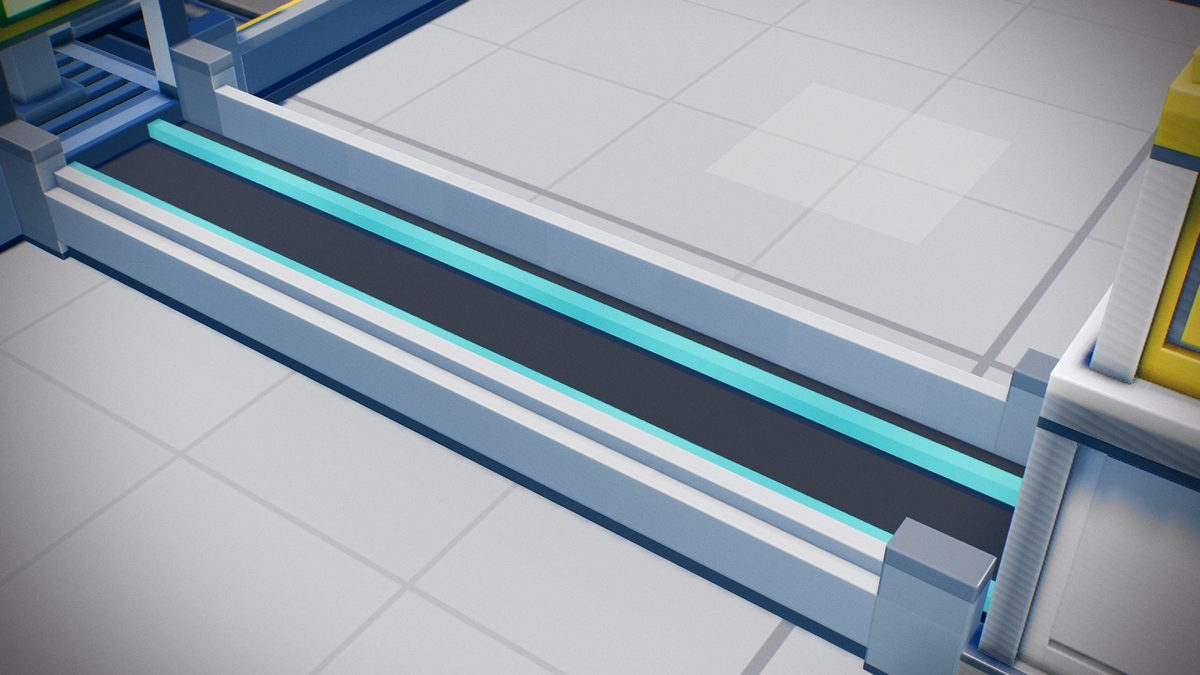
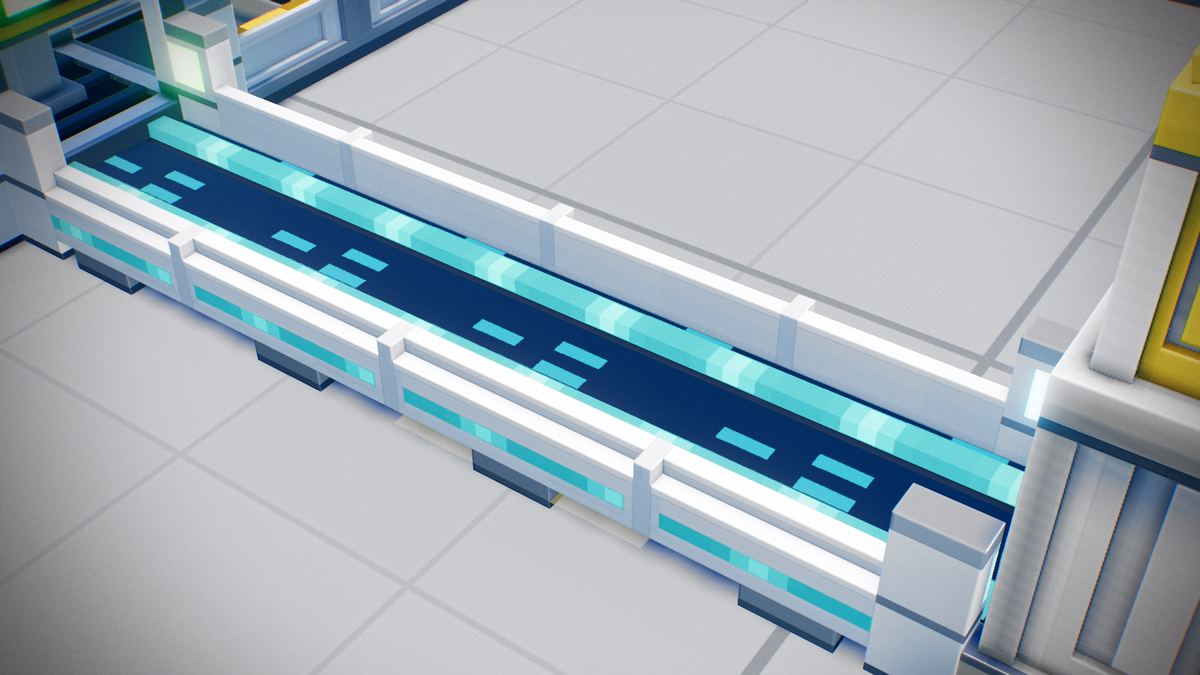
Catalog: Factoriature title, current belts, train, vehicles, story and opening sets
Logistics cards now show the current belts and devices, plus a foundation
card. Adds 27 model cards in four sections, marks the hero as temporary and
moves the page banner to img/banner.jpg, since hero.jpg is now the hero model.

diff --git a/index.html b/index.html
@@ -3,7 +3,7 @@
 <head>
 <meta charset="utf-8">
 <meta name="viewport" content="width=device-width,initial-scale=1,viewport-fit=cover">
-<title>SKYROOT 기계 도감</title>
+<title>Factoriature (임시 제목) 기계 도감</title>
 <link rel="stylesheet" href="https://fonts.googleapis.com/css2?family=Black+Han+Sans&family=IBM+Plex+Mono:wght@400;500&family=IBM+Plex+Sans+KR:wght@400;500;700&display=swap">
 <style>
 /* Layout: a parts catalogue. Hazard-taped header, one filter rail, spec-sheet cards. */
@@ -11,22 +11,25 @@
   --bg:#e9ecee; --panel:#fafbfb; --ink:#1b2026; --muted:#59626c; --line:#d0d6da; --chip:#e1e5e8;
   --hazard:#f2c21c; --hazard-dark:#1b2026;
   --heat:#d9601a; --extract:#c98c10; --power:#c93d32; --fluid:#0c8c81; --bio:#35953b; --assemble:#76982a; --forming:#2d62c4; --lumen:#7a4fd0; --sky:#4a50c0; --utility:#23977d;
+  --logi:#7f6f08; --rail:#66717d; --vehicle:#16799e; --story:#b8388e; --opening:#c73560;
   --display:"Black Han Sans","IBM Plex Sans KR",system-ui,sans-serif;
   --body:"IBM Plex Sans KR",system-ui,-apple-system,sans-serif;
   --mono:"IBM Plex Mono",ui-monospace,Menlo,monospace;
 }
 @media (prefers-color-scheme:dark){:root:not([data-theme="light"]){
   --bg:#14171b; --panel:#1d2126; --ink:#e9edf0; --muted:#9aa4ae; --line:#30363d; --chip:#2a2f35; --hazard-dark:#14171b;
-  --heat:#f0853f; --extract:#e6b23a; --power:#ee6a5e; --fluid:#3cc4b7; --bio:#62c768; --assemble:#a9cc55; --forming:#6f9fee; --lumen:#ab8cf0; --sky:#8f94ec; --utility:#55cfae; color-scheme:dark}}
+  --heat:#f0853f; --extract:#e6b23a; --power:#ee6a5e; --fluid:#3cc4b7; --bio:#62c768; --assemble:#a9cc55; --forming:#6f9fee; --lumen:#ab8cf0; --sky:#8f94ec; --utility:#55cfae; --logi:#d9c23e; --rail:#a7b1bc; --vehicle:#4fb4dc; --story:#e56cbd; --opening:#f0729a; color-scheme:dark}}
 :root[data-theme="dark"]{
   --bg:#14171b; --panel:#1d2126; --ink:#e9edf0; --muted:#9aa4ae; --line:#30363d; --chip:#2a2f35; --hazard-dark:#14171b;
-  --heat:#f0853f; --extract:#e6b23a; --power:#ee6a5e; --fluid:#3cc4b7; --bio:#62c768; --assemble:#a9cc55; --forming:#6f9fee; --lumen:#ab8cf0; --sky:#8f94ec; --utility:#55cfae; color-scheme:dark}
+  --heat:#f0853f; --extract:#e6b23a; --power:#ee6a5e; --fluid:#3cc4b7; --bio:#62c768; --assemble:#a9cc55; --forming:#6f9fee; --lumen:#ab8cf0; --sky:#8f94ec; --utility:#55cfae; --logi:#d9c23e; --rail:#a7b1bc; --vehicle:#4fb4dc; --story:#e56cbd; --opening:#f0729a; color-scheme:dark}
 *{box-sizing:border-box}
+[hidden]{display:none!important}
 body{background:var(--bg);color:var(--ink);font-family:var(--body);font-size:15px;line-height:1.55}
 .wrap{max-width:1240px;margin:0 auto;padding-left:max(16px,env(safe-area-inset-left,0px));padding-right:max(16px,env(safe-area-inset-right,0px));padding-block:0 56px}
 .tape{height:12px;background:repeating-linear-gradient(135deg,var(--hazard) 0 18px,var(--hazard-dark) 18px 36px)}
 header{display:grid;grid-template-columns:minmax(0,5fr) minmax(0,7fr);gap:28px;align-items:end;padding-block:28px 22px}
 h1{font-family:var(--display);font-weight:400;font-size:clamp(34px,6vw,60px);line-height:1.05;margin:0 0 12px;text-wrap:balance}
+.tmp{font:500 .36em var(--body);color:var(--muted);white-space:nowrap}
 .lede{margin:0;color:var(--muted);max-width:44ch}
 .hero{margin:0;min-width:0}
 .hero img{display:block;width:100%;aspect-ratio:16/8;object-fit:cover;object-position:50% 40%}
@@ -59,6 +62,10 @@ dd{margin:0;font-family:var(--mono);font-size:14px}
 .makes{margin:0;font-size:13.5px;color:var(--muted)}
 .noscore{margin-top:auto;font-size:12px}
 .logi{padding-block:32px 0}
+.set{padding-block:32px 0}
+.set>h2{font-size:22px;margin:0 0 6px}
+.set>p{margin:0;color:var(--muted)}
+.set .grid{padding-block:14px 0}
 .logi h2{font-size:22px;margin:0 0 6px}
 .logi p{margin:0 0 14px;color:var(--muted)}
 .logi figure{margin:0 0 14px}
@@ -80,7 +87,7 @@ dialog::backdrop{background:rgba(10,12,15,.78)}
 dialog img{display:block;width:100%;height:auto;max-height:82vh;object-fit:contain}
 .cap{display:flex;justify-content:space-between;gap:12px;align-items:center;padding:10px 14px}
 .cap button{font:500 13.5px var(--body);color:var(--ink);background:transparent;border:1px solid var(--line);padding:5px 12px;cursor:pointer}
-@media (max-width:760px){header{grid-template-columns:minmax(0,1fr)}.sort{margin-left:0}}
+@media (max-width:760px){header{grid-template-columns:minmax(0,1fr)}.sort{margin-left:0}.rail{position:static}}
 </style>
 </head>
 <body>
@@ -88,21 +95,26 @@ dialog img{display:block;width:100%;height:auto;max-height:82vh;object-fit:conta
 <div class="wrap">
 <header>
   <div>
-    <h1>SKYROOT<br>기계 도감</h1>
-    <p class="lede">하늘섬 공장 게임 SKYROOT의 v4.2 기계들이에요. 네 면을 다듬은 기계 39종을 같은 자연 평지, 같은 낮 조명으로 찍었어요. 뒷면 보기 버튼으로 뒤쪽을 볼 수 있고, 사진을 누르면 앞뒤를 나란히 크게 볼 수 있어요.</p>
+    <h1>Factoriature<br>기계 도감 <span class="tmp">(임시 제목)</span></h1>
+    <p class="lede">공장 게임 Factoriature의 최신 모델을 모았어요. 기계 39종과 벨트·물류 12종에 화물 열차, 탈것, 이야기 구조물, 오프닝 세트까지 같은 낮 조명으로 찍었어요. 뒷면 보기 버튼으로 뒤쪽을 볼 수 있고, 사진을 누르면 앞뒤를 나란히 크게 볼 수 있어요.</p>
   </div>
-  <figure class="hero"><img src="img/hero.jpg" alt="다듬은 기계들을 벨트로 이어 놓은 공장 구역"></figure>
+  <figure class="hero"><img src="img/banner.jpg" alt="기계들을 벨트로 이어 놓은 공장 구역"></figure>
 </header>
-<p class="legend">합격은 직접 보고 고른 기계예요. 점수는 비평 에이전트가 앞뒤 사진을 보고 10점 만점으로 매긴 값이고, 그 지적을 고친 뒤 찍은 사진이라 지금은 더 나을 수 있어요. 게임 0.12.0 기준이에요.</p>
+<p class="legend">합격은 직접 보고 고른 기계이고, 임시는 아직 바뀔 수 있는 모델이에요. 점수는 비평 에이전트가 앞뒤 사진을 보고 10점 만점으로 매긴 값이고, 그 지적을 고친 뒤 찍은 사진이라 지금은 더 나을 수 있어요. 게임 0.12.0 기준이에요.</p>
 <div class="rail" id="rail" role="group" aria-label="계열 필터"></div>
 <section class="grid" id="grid" aria-live="polite"></section>
-<section class="logi"><h2>벨트와 물류</h2><p>벨트는 기계를 돋보이게 하도록 다시 다듬었어요. 어두운색은 기계 입구, 흰색은 기계, 노란색은 장치에만 쓰고, 등급은 재질로 구분해요.</p><figure><img loading="lazy" src="img/logi_noon.jpg" alt="벨트와 물류 블록을 깔아 놓은 시험장"></figure><div class="logigrid"><figure><img loading="lazy" src="img/logi_detail_mk1.jpg" alt="컨베이어 벨트 Mk1"><figcaption><b>컨베이어 벨트 Mk1</b>평평한 고무 벨트에 철제 난간. 줄무늬를 없앴어요.</figcaption></figure><figure><img loading="lazy" src="img/logi_detail_mk2.jpg" alt="컨베이어 벨트 Mk2"><figcaption><b>컨베이어 벨트 Mk2</b>움직이는 강철판과 은은한 호박색 선. 화살표를 뺐어요.</figcaption></figure><figure><img loading="lazy" src="img/logi_detail_mk3.jpg" alt="컨베이어 벨트 Mk3"><figcaption><b>컨베이어 벨트 Mk3</b>어두운 유리 채널에 빛나는 레일 두 줄.</figcaption></figure><figure><img loading="lazy" src="img/logi_close_turns.jpg" alt="곡선"><figcaption><b>곡선</b>대각선 계단 대신 네모난 고정판을 썼어요.</figcaption></figure><figure><img loading="lazy" src="img/logi_detail_ramp.jpg" alt="경사로"><figcaption><b>경사로</b>세 등급 모두 언덕을 오르내려요.</figcaption></figure><figure><img loading="lazy" src="img/logi_close_splitter.jpg" alt="분배기"><figcaption><b>분배기</b>칠한 화살표 대신 실제로 도는 팔이 출구를 가리켜요.</figcaption></figure><figure><img loading="lazy" src="img/logi_close_merger.jpg" alt="합류기"><figcaption><b>합류기</b>여러 벨트를 하나로 모아요.</figcaption></figure><figure><img loading="lazy" src="img/logi_close_filter.jpg" alt="필터 분배기"><figcaption><b>필터 분배기</b>유리 머리 안에 고른 아이템이 보여요.</figcaption></figure><figure><img loading="lazy" src="img/logi_close_crate.jpg" alt="보관함"><figcaption><b>보관함</b>벨트로 넣고 꺼내요.</figcaption></figure><figure><img loading="lazy" src="img/logi_close_lift.jpg" alt="아이템 승강기"><figcaption><b>아이템 승강기</b>유리 통로 안으로 아이템이 올라가요.</figcaption></figure><figure><img loading="lazy" src="img/logi_detail_deck.jpg" alt="고가 발판"><figcaption><b>고가 발판</b>4 m마다 H형 기둥이 받쳐요.</figcaption></figure></div></section>
+<section class="logi" id="logi"><h2>벨트와 물류</h2><p>어두운 리브와 흰 난간을 쓰는 지금의 벨트예요. 등급은 재질과 빛으로 구분해요.</p><figure><img loading="lazy" src="img/logi_noon.jpg" alt="벨트와 물류 블록을 깔아 놓은 시험장"></figure><div class="logigrid"><figure><img loading="lazy" src="img/logi_detail_mk1.jpg" alt="컨베이어 벨트 Mk1"><figcaption><b>컨베이어 벨트 Mk1</b>어두운 고무 리브에 흰 패널 난간, 1 m마다 노란 고정쇠.</figcaption></figure><figure><img loading="lazy" src="img/logi_detail_mk2.jpg" alt="컨베이어 벨트 Mk2"><figcaption><b>컨베이어 벨트 Mk2</b>움직이는 강철판에 호박색 빛이 난간을 따라 흘러요.</figcaption></figure><figure><img loading="lazy" src="img/logi_detail_mk3.jpg" alt="루멘 부상 벨트 Mk3"><figcaption><b>루멘 부상 벨트 Mk3</b>흰 하우징 사이 어두운 채널에 청록색 빛이 흘러요.</figcaption></figure><figure><img loading="lazy" src="img/logi_detail_turn.jpg" alt="곡선"><figcaption><b>곡선</b>리브가 안쪽 모서리를 따라 부채꼴로 펴져요.</figcaption></figure><figure><img loading="lazy" src="img/logi_detail_ramp.jpg" alt="경사로"><figcaption><b>경사로</b>세 등급 모두 언덕을 오르내려요.</figcaption></figure><figure><img loading="lazy" src="img/logi_close_splitter.jpg" alt="분배기"><figcaption><b>분배기</b>칠한 화살표 대신 실제로 도는 팔이 출구를 가리켜요.</figcaption></figure><figure><img loading="lazy" src="img/logi_close_merger.jpg" alt="합류기"><figcaption><b>합류기</b>여러 벨트를 하나로 모아요.</figcaption></figure><figure><img loading="lazy" src="img/logi_close_filter.jpg" alt="필터 분배기"><figcaption><b>필터 분배기</b>유리 머리 안에 고른 아이템이 보여요.</figcaption></figure><figure><img loading="lazy" src="img/logi_detail_lift.jpg" alt="아이템 승강기"><figcaption><b>아이템 승강기</b>유리 통로 안으로 아이템이 위층까지 올라가요.</figcaption></figure><figure><img loading="lazy" src="img/logi_close_crate.jpg" alt="보관함"><figcaption><b>보관함</b>벨트로 넣고 꺼내요.</figcaption></figure><figure><img loading="lazy" src="img/logi_detail_deck_b.jpg" alt="철제 발판"><figcaption><b>철제 발판</b>H형 기둥이 받치는 2층 바닥으로, 위에 벨트를 깔아요.</figcaption></figure><figure><img loading="lazy" src="img/logi_detail_foundation_f.jpg" alt="기초"><figcaption><b>기초</b>땅을 평평하게 고르고 타일 바닥을 깔아요.</figcaption></figure></div></section>
+<section class="set" data-k="rail"><h2>화물 열차</h2><p>화물 열차와 선로 세트예요. 아직 모델만 있고 게임 기능은 없어요.</p><div class="grid"></div></section>
+<section class="set" data-k="vehicle"><h2>탈것</h2><p>게임 후반에 플레이어가 타는 탈것이에요. 흰색과 하늘색으로 맞췄고, 아직 모델만 있어요.</p><div class="grid"></div></section>
+<section class="set" data-k="story"><h2>이야기 구조물</h2><p>엔딩까지 눈앞에서 쌓아 올리는 구조물이에요. 아직 모델만 있고 게임 기능은 없어요.</p><div class="grid"></div></section>
+<section class="set" data-k="opening"><h2>오프닝 세트</h2><p>게임이 시작되는 불시착 현장이에요. 아직 모델만 있고 게임 기능은 없어요.</p><div class="grid"></div></section>
 </div>
 <dialog id="dlg"><div class="pair"><figure><img id="dlgImg" alt=""><figcaption>앞면</figcaption></figure><figure><img id="dlgBack" alt=""><figcaption>뒷면</figcaption></figure></div><div class="cap"><span id="dlgCap"></span><button id="dlgClose" type="button">닫기</button></div></dialog>
 <script>
-const M = [{"id": "smelter", "ko": "제련로", "en": "Smelter", "fam": "heat", "famko": "가열", "verb": "녹인다", "size": [2, 2], "h": 4.5, "power": 6, "makes": ["구리 주괴", "잿불 주괴", "철 주괴", "유물 합금"], "score": [8.5, 8.5], "ok": false}, {"id": "kiln", "ko": "가마", "en": "Kiln", "fam": "heat", "famko": "가열", "verb": "굽는다", "size": [2, 2], "h": 4.1875, "power": 6, "makes": ["생체 세라믹", "벽돌", "석영유리"], "score": [8.5, 7.0], "ok": false}, {"id": "foundry", "ko": "주조소", "en": "Foundry", "fam": "heat", "famko": "가열", "verb": "합금한다", "size": [3, 2], "h": 4.75, "power": 16, "makes": ["잿불 합금", "강철 주괴"], "score": [7.5, 7.5], "ok": false}, {"id": "burner", "ko": "바이오 연소로", "en": "Biomass Burner", "fam": "heat", "famko": "가열", "verb": "태운다", "size": [2, 2], "h": 4.125, "power": -25, "makes": [], "score": [7.5, 7.0], "ok": false}, {"id": "geothermal", "ko": "지열 발전소", "en": "Geothermal Plant", "fam": "heat", "famko": "가열", "verb": "땅 열을 쓴다", "size": [3, 3], "h": 6.5, "power": -120, "makes": [], "score": [8.0, 7.5], "ok": false}, {"id": "miner", "ko": "채굴기", "en": "Miner", "fam": "extract", "famko": "채집", "verb": "캔다", "size": [2, 2], "h": 5.1562, "power": 8, "makes": ["현무암", "석탄", "구리광석", "잿불석"], "score": [7.5, 7.5], "ok": false}, {"id": "woodcutter", "ko": "벌목기", "en": "Woodcutter", "fam": "extract", "famko": "채집", "verb": "벤다", "size": [2, 2], "h": 3.75, "power": 6, "makes": ["심재목", "목재"], "score": [7.5, 7.5], "ok": false}, {"id": "pump", "ko": "펌프", "en": "Pump", "fam": "extract", "famko": "채집", "verb": "퍼올린다", "size": [2, 2], "h": 3.875, "power": 10, "makes": ["염수", "늪밀랍", "물"], "score": [7.5, 6.0], "ok": false}, {"id": "essence_extractor", "ko": "정수 추출기", "en": "Essence Extractor", "fam": "extract", "famko": "채집", "verb": "뽑아낸다", "size": [3, 3], "h": 6.0, "power": 20, "makes": ["서리유리", "프리즘 석영", "원시 루멘", "하늘산호"], "score": [8.5, 7.0], "ok": false}, {"id": "windmill", "ko": "풍차", "en": "Windmill", "fam": "power", "famko": "전력", "verb": "바람을 모은다", "size": [2, 2], "h": 9.2188, "power": -15, "makes": [], "score": [7.5, 7.5], "ok": false}, {"id": "waterwheel", "ko": "수차", "en": "Water Wheel", "fam": "power", "famko": "전력", "verb": "물을 돌린다", "size": [2, 2], "h": 2.8125, "power": -30, "makes": [], "score": [6.0, 6.0], "ok": false}, {"id": "solar_array", "ko": "태양광 판", "en": "Solar Array", "fam": "power", "famko": "전력", "verb": "햇빛을 모은다", "size": [2, 2], "h": 2.0, "power": -20, "makes": [], "score": [7.5, 5.5], "ok": false}, {"id": "pylon", "ko": "전선 기둥", "en": "Power Pylon", "fam": "power", "famko": "전력", "verb": "전기를 잇는다", "size": [1, 1], "h": 4.5, "power": 0, "makes": [], "score": [8.0, 8.0], "ok": false}, {"id": "distiller", "ko": "증류기", "en": "Distiller", "fam": "fluid", "famko": "액체", "verb": "증류한다", "size": [2, 2], "h": 4.75, "power": 10, "makes": ["황혼 추출액", "심재 수지", "루멘 잉크", "정제 밀랍"], "score": [9.0, 8.0], "ok": true}, {"id": "centrifuge", "ko": "원심분리기", "en": "Centrifuge", "fam": "fluid", "famko": "액체", "verb": "가른다", "size": [2, 2], "h": 2.1875, "power": 14, "makes": ["소금결정"], "score": [8.5, 8.0], "ok": false}, {"id": "mixer", "ko": "혼합기", "en": "Mixer", "fam": "fluid", "famko": "액체", "verb": "섞는다", "size": [2, 2], "h": 4.375, "power": 8, "makes": ["콘크리트", "냉각액", "황혼 영약", "진주 유약"], "score": [9.0, 8.5], "ok": true}, {"id": "sink", "ko": "뿌리 퇴비통", "en": "Root Compost", "fam": "fluid", "famko": "액체", "verb": "거름으로 돌린다", "size": [2, 2], "h": 2.25, "power": 5, "makes": [], "score": [8.0, 7.0], "ok": false}, {"id": "bioreactor", "ko": "배양기", "en": "Bioreactor", "fam": "bio", "famko": "생물", "verb": "키운다", "size": [3, 2], "h": 3.8438, "power": 10, "makes": ["빛버섯 배양액", "균사 매트"], "score": [9.0, 7.5], "ok": true}, {"id": "harvester", "ko": "수확기", "en": "Harvester", "fam": "bio", "famko": "생물", "verb": "거둔다", "size": [2, 2], "h": 2.1875, "power": 6, "makes": ["구름솜", "황혼꽃", "섬유잎", "빛버섯"], "score": [8.5, 7.5], "ok": false}, {"id": "assembler", "ko": "조립기", "en": "Assembler", "fam": "assemble", "famko": "조립", "verb": "조립한다", "size": [3, 2], "h": 3.0, "power": 10, "makes": ["에어로겔 패드", "빈 인장", "복합 들보", "부양 코일"], "score": [8.5, 7.5], "ok": false}, {"id": "fabricator", "ko": "정밀 제작기", "en": "Fabricator", "fam": "assemble", "famko": "조립", "verb": "정밀 제작한다", "size": [3, 3], "h": 4.75, "power": 20, "makes": ["제어판"], "score": [8.5, 8.0], "ok": false}, {"id": "seal_press", "ko": "인장 압인기", "en": "Seal Press", "fam": "assemble", "famko": "조립", "verb": "새긴다", "size": [3, 3], "h": 4.8125, "power": 25, "makes": ["심연의 핵 인장", "현무 계단 인장", "황토 협곡 인장", "폭포 계단 인장"], "score": [8.5, 7.5], "ok": false}, {"id": "heart_assembler", "ko": "심장 조립기", "en": "Heart Assembler", "fam": "assemble", "famko": "조립", "verb": "엮어 합친다", "size": [4, 4], "h": 9.125, "power": 40, "makes": ["개화 심장", "냉각 심장", "잿불 심장", "루멘 회로"], "score": [8.5, 8.0], "ok": false}, {"id": "press", "ko": "압착기", "en": "Press", "fam": "forming", "famko": "성형", "verb": "누른다", "size": [2, 2], "h": 2.3125, "power": 8, "makes": ["구리판", "철 톱니", "철판", "자석"], "score": [8.5, 8.0], "ok": false}, {"id": "extruder", "ko": "압출기", "en": "Extruder", "fam": "forming", "famko": "성형", "verb": "뽑는다", "size": [2, 2], "h": 2.25, "power": 8, "makes": ["현무섬유", "철 막대", "강철 들보"], "score": [7.5, 6.0], "ok": false}, {"id": "wire_drawer", "ko": "인발기", "en": "Wire Drawer", "fam": "forming", "famko": "성형", "verb": "늘인다", "size": [2, 1], "h": 2.25, "power": 5, "makes": ["구리선"], "score": [7.0, 7.5], "ok": false}, {"id": "sawmill", "ko": "제재소", "en": "Sawmill", "fam": "forming", "famko": "성형", "verb": "켠다", "size": [2, 1], "h": 2.25, "power": 4, "makes": ["판자"], "score": [7.5, 7.5], "ok": false}, {"id": "crusher", "ko": "분쇄기", "en": "Crusher", "fam": "forming", "famko": "성형", "verb": "부순다", "size": [2, 2], "h": 2.3125, "power": 10, "makes": ["산호 가루", "서리 가루", "자갈", "얼음 조각"], "score": [7.5, 6.0], "ok": false}, {"id": "cutter", "ko": "연마기", "en": "Cutter", "fam": "forming", "famko": "성형", "verb": "깎는다", "size": [2, 2], "h": 2.2812, "power": 12, "makes": ["루멘 결정", "프리즘 조각", "규소 웨이퍼", "태양석 조각"], "score": [8.0, 8.0], "ok": false}, {"id": "loom", "ko": "직조기", "en": "Loom", "fam": "forming", "famko": "성형", "verb": "엮는다", "size": [2, 2], "h": 2.3125, "power": 5, "makes": ["현무 직물", "구름실", "잎끈"], "score": [7.5, 7.5], "ok": false}, {"id": "infuser", "ko": "루멘 주입기", "en": "Lumen Infuser", "fam": "lumen", "famko": "루멘", "verb": "불어넣는다", "size": [3, 2], "h": 4.6875, "power": 30, "makes": ["루멘 전지"], "score": [8.5, 8.5], "ok": true}, {"id": "lumen_reactor", "ko": "루멘 반응로", "en": "Lumen Reactor", "fam": "lumen", "famko": "루멘", "verb": "루멘을 깨운다", "size": [4, 4], "h": 7.0625, "power": -500, "makes": [], "score": [7.5, 8.5], "ok": false}, {"id": "drone_port", "ko": "드론 포트", "en": "Drone Port", "fam": "sky", "famko": "하늘", "verb": "보낸다", "size": [3, 3], "h": 7.125, "power": 15, "makes": [], "score": [8.5, 8.5], "ok": true}, {"id": "skyline", "ko": "하늘 케이블역", "en": "Skyline Station", "fam": "sky", "famko": "하늘", "verb": "잇는다", "size": [3, 3], "h": 6.9375, "power": 25, "makes": [], "score": [8.0, 7.5], "ok": false}, {"id": "sky_dock", "ko": "하늘 선착장", "en": "Sky Dock", "fam": "sky", "famko": "하늘", "verb": "항해한다", "size": [4, 3], "h": 6.8125, "power": 0, "makes": [], "score": [8.0, 7.0], "ok": false}, {"id": "workbench", "ko": "작업대", "en": "Workbench", "fam": "utility", "famko": "보조", "verb": "손으로 만든다", "size": [2, 1], "h": 2.0625, "power": 0, "makes": [], "score": [7.5, 7.5], "ok": false}, {"id": "skyscope", "ko": "하늘 망원경", "en": "Skyscope", "fam": "utility", "famko": "보조", "verb": "섬을 찾는다", "size": [2, 2], "h": 2.125, "power": 5, "makes": [], "score": [7.5, 7.5], "ok": false}, {"id": "wardlight", "ko": "수호등", "en": "Wardlight", "fam": "utility", "famko": "보조", "verb": "어스름을 쫓는다", "size": [1, 1], "h": 2.3125, "power": 4, "makes": [], "score": [8.0, 8.0], "ok": false}, {"id": "crate", "ko": "상자", "en": "Crate", "fam": "utility", "famko": "보조", "verb": "보관한다", "size": [1, 1], "h": 0, "power": 0, "makes": [], "score": null, "ok": false}];
-const FAM = [["all","전체"],["heat","가열"],["extract","채집"],["power","전력"],["fluid","액체"],["bio","생물"],["assemble","조립"],["forming","성형"],["lumen","루멘"],["sky","하늘"],["utility","보조"]];
-const rail = document.getElementById("rail"), grid = document.getElementById("grid");
+const M = [{"id": "smelter", "ko": "제련로", "en": "Smelter", "fam": "heat", "famko": "가열", "verb": "녹인다", "size": [2, 2], "h": 4.5, "power": 6, "makes": ["구리 주괴", "잿불 주괴", "철 주괴", "유물 합금"], "score": [8.5, 8.5], "ok": false}, {"id": "kiln", "ko": "가마", "en": "Kiln", "fam": "heat", "famko": "가열", "verb": "굽는다", "size": [2, 2], "h": 4.125, "power": 6, "makes": ["생체 세라믹", "벽돌", "석영유리"], "score": [8.5, 7.0], "ok": false}, {"id": "foundry", "ko": "주조소", "en": "Foundry", "fam": "heat", "famko": "가열", "verb": "합금한다", "size": [3, 2], "h": 4.5625, "power": 16, "makes": ["잿불 합금", "강철 주괴"], "score": [7.5, 7.5], "ok": false}, {"id": "burner", "ko": "바이오 연소로", "en": "Biomass Burner", "fam": "heat", "famko": "가열", "verb": "태운다", "size": [2, 2], "h": 4.4375, "power": -25, "makes": [], "score": [7.5, 7.0], "ok": false}, {"id": "geothermal", "ko": "지열 발전소", "en": "Geothermal Plant", "fam": "heat", "famko": "가열", "verb": "땅 열을 쓴다", "size": [3, 3], "h": 5.8125, "power": -120, "makes": [], "score": [8.0, 7.5], "ok": false}, {"id": "miner", "ko": "채굴기", "en": "Miner", "fam": "extract", "famko": "채집", "verb": "캔다", "size": [2, 2], "h": 6.9375, "power": 8, "makes": ["현무암", "석탄", "구리광석", "잿불석"], "score": [7.5, 7.5], "ok": false}, {"id": "woodcutter", "ko": "벌목기", "en": "Woodcutter", "fam": "extract", "famko": "채집", "verb": "벤다", "size": [2, 2], "h": 4.4375, "power": 6, "makes": ["심재목", "목재"], "score": [7.5, 7.5], "ok": false}, {"id": "pump", "ko": "펌프", "en": "Pump", "fam": "extract", "famko": "채집", "verb": "퍼올린다", "size": [2, 2], "h": 3.2812, "power": 10, "makes": ["염수", "늪밀랍", "물"], "score": [7.5, 6.0], "ok": false}, {"id": "essence_extractor", "ko": "정수 추출기", "en": "Essence Extractor", "fam": "extract", "famko": "채집", "verb": "뽑아낸다", "size": [3, 3], "h": 6.4375, "power": 20, "makes": ["서리유리", "프리즘 석영", "원시 루멘", "하늘산호"], "score": [8.5, 7.0], "ok": false}, {"id": "windmill", "ko": "풍차", "en": "Windmill", "fam": "power", "famko": "전력", "verb": "바람을 모은다", "size": [2, 2], "h": 9.4062, "power": -15, "makes": [], "score": [7.5, 7.5], "ok": false}, {"id": "waterwheel", "ko": "수차", "en": "Water Wheel", "fam": "power", "famko": "전력", "verb": "물을 돌린다", "size": [2, 2], "h": 2.8438, "power": -30, "makes": [], "score": [6.0, 6.0], "ok": false}, {"id": "solar_array", "ko": "태양광 판", "en": "Solar Array", "fam": "power", "famko": "전력", "verb": "햇빛을 모은다", "size": [2, 2], "h": 1.8125, "power": -20, "makes": [], "score": [7.5, 5.5], "ok": false}, {"id": "pylon", "ko": "전선 기둥", "en": "Power Pylon", "fam": "power", "famko": "전력", "verb": "전기를 잇는다", "size": [1, 1], "h": 4.75, "power": 0, "makes": [], "score": [8.0, 8.0], "ok": false}, {"id": "distiller", "ko": "증류기", "en": "Distiller", "fam": "fluid", "famko": "액체", "verb": "증류한다", "size": [2, 2], "h": 4.75, "power": 10, "makes": ["황혼 추출액", "심재 수지", "루멘 잉크", "정제 밀랍"], "score": [9.0, 8.0], "ok": true}, {"id": "centrifuge", "ko": "원심분리기", "en": "Centrifuge", "fam": "fluid", "famko": "액체", "verb": "가른다", "size": [2, 2], "h": 2.0938, "power": 14, "makes": ["소금결정"], "score": [8.5, 8.0], "ok": false}, {"id": "mixer", "ko": "혼합기", "en": "Mixer", "fam": "fluid", "famko": "액체", "verb": "섞는다", "size": [2, 2], "h": 4.0625, "power": 8, "makes": ["콘크리트", "냉각액", "황혼 영약", "진주 유약"], "score": [9.0, 8.5], "ok": true}, {"id": "sink", "ko": "뿌리 퇴비통", "en": "Root Compost", "fam": "fluid", "famko": "액체", "verb": "거름으로 돌린다", "size": [2, 2], "h": 1.875, "power": 5, "makes": [], "score": [8.0, 7.0], "ok": false}, {"id": "bioreactor", "ko": "배양기", "en": "Bioreactor", "fam": "bio", "famko": "생물", "verb": "키운다", "size": [3, 2], "h": 3.8438, "power": 10, "makes": ["빛버섯 배양액", "균사 매트"], "score": [9.0, 7.5], "ok": true}, {"id": "harvester", "ko": "수확기", "en": "Harvester", "fam": "bio", "famko": "생물", "verb": "거둔다", "size": [2, 2], "h": 2.125, "power": 6, "makes": ["구름솜", "황혼꽃", "섬유잎", "빛버섯"], "score": [8.5, 7.5], "ok": false}, {"id": "assembler", "ko": "조립기", "en": "Assembler", "fam": "assemble", "famko": "조립", "verb": "조립한다", "size": [3, 2], "h": 3.3438, "power": 10, "makes": ["에어로겔 패드", "빈 인장", "복합 들보", "부양 코일"], "score": [8.5, 7.5], "ok": false}, {"id": "fabricator", "ko": "정밀 제작기", "en": "Fabricator", "fam": "assemble", "famko": "조립", "verb": "정밀 제작한다", "size": [3, 3], "h": 3.375, "power": 20, "makes": ["제어판"], "score": [8.5, 8.0], "ok": false}, {"id": "seal_press", "ko": "인장 압인기", "en": "Seal Press", "fam": "assemble", "famko": "조립", "verb": "새긴다", "size": [3, 3], "h": 4.625, "power": 25, "makes": ["심연의 핵 인장", "현무 계단 인장", "황토 협곡 인장", "폭포 계단 인장"], "score": [8.5, 7.5], "ok": false}, {"id": "heart_assembler", "ko": "심장 조립기", "en": "Heart Assembler", "fam": "assemble", "famko": "조립", "verb": "엮어 합친다", "size": [4, 4], "h": 9.375, "power": 40, "makes": ["개화 심장", "냉각 심장", "잿불 심장", "루멘 회로"], "score": [8.5, 8.0], "ok": false}, {"id": "press", "ko": "압착기", "en": "Press", "fam": "forming", "famko": "성형", "verb": "누른다", "size": [2, 2], "h": 2.3125, "power": 8, "makes": ["구리판", "철 톱니", "철판", "자석"], "score": [8.5, 8.0], "ok": false}, {"id": "extruder", "ko": "압출기", "en": "Extruder", "fam": "forming", "famko": "성형", "verb": "뽑는다", "size": [2, 2], "h": 2.25, "power": 8, "makes": ["현무섬유", "철 막대", "강철 들보"], "score": [7.5, 6.0], "ok": false}, {"id": "wire_drawer", "ko": "인발기", "en": "Wire Drawer", "fam": "forming", "famko": "성형", "verb": "늘인다", "size": [2, 1], "h": 2.25, "power": 5, "makes": ["구리선"], "score": [7.0, 7.5], "ok": false}, {"id": "sawmill", "ko": "제재소", "en": "Sawmill", "fam": "forming", "famko": "성형", "verb": "켠다", "size": [2, 1], "h": 2.3125, "power": 4, "makes": ["판자"], "score": [7.5, 7.5], "ok": false}, {"id": "crusher", "ko": "분쇄기", "en": "Crusher", "fam": "forming", "famko": "성형", "verb": "부순다", "size": [2, 2], "h": 2.3125, "power": 10, "makes": ["산호 가루", "서리 가루", "자갈", "얼음 조각"], "score": [7.5, 6.0], "ok": false}, {"id": "cutter", "ko": "연마기", "en": "Cutter", "fam": "forming", "famko": "성형", "verb": "깎는다", "size": [2, 2], "h": 2.2812, "power": 12, "makes": ["루멘 결정", "프리즘 조각", "규소 웨이퍼", "태양석 조각"], "score": [8.0, 8.0], "ok": false}, {"id": "loom", "ko": "직조기", "en": "Loom", "fam": "forming", "famko": "성형", "verb": "엮는다", "size": [2, 2], "h": 2.3125, "power": 5, "makes": ["현무 직물", "구름실", "잎끈"], "score": [7.5, 7.5], "ok": false}, {"id": "infuser", "ko": "루멘 주입기", "en": "Lumen Infuser", "fam": "lumen", "famko": "루멘", "verb": "불어넣는다", "size": [3, 2], "h": 4.6875, "power": 30, "makes": ["루멘 전지"], "score": [8.5, 8.5], "ok": true}, {"id": "lumen_reactor", "ko": "루멘 반응로", "en": "Lumen Reactor", "fam": "lumen", "famko": "루멘", "verb": "루멘을 깨운다", "size": [4, 4], "h": 7.125, "power": -500, "makes": [], "score": [7.5, 8.5], "ok": false}, {"id": "drone_port", "ko": "드론 포트", "en": "Drone Port", "fam": "sky", "famko": "하늘", "verb": "보낸다", "size": [3, 3], "h": 7.125, "power": 15, "makes": [], "score": [8.5, 8.5], "ok": true}, {"id": "skyline", "ko": "하늘 케이블역", "en": "Skyline Station", "fam": "sky", "famko": "하늘", "verb": "잇는다", "size": [3, 3], "h": 6.9375, "power": 25, "makes": [], "score": [8.0, 7.5], "ok": false}, {"id": "sky_dock", "ko": "하늘 선착장", "en": "Sky Dock", "fam": "sky", "famko": "하늘", "verb": "항해한다", "size": [4, 3], "h": 6.8125, "power": 0, "makes": [], "score": [8.0, 7.0], "ok": false}, {"id": "workbench", "ko": "작업대", "en": "Workbench", "fam": "utility", "famko": "보조", "verb": "손으로 만든다", "size": [2, 1], "h": 2.1875, "power": 0, "makes": [], "score": [7.5, 7.5], "ok": false}, {"id": "skyscope", "ko": "하늘 망원경", "en": "Skyscope", "fam": "utility", "famko": "보조", "verb": "섬을 찾는다", "size": [2, 2], "h": 2.2812, "power": 5, "makes": [], "score": [7.5, 7.5], "ok": false}, {"id": "wardlight", "ko": "수호등", "en": "Wardlight", "fam": "utility", "famko": "보조", "verb": "어스름을 쫓는다", "size": [1, 1], "h": 2.2188, "power": 4, "makes": [], "score": [8.0, 8.0], "ok": false}, {"id": "crate", "ko": "보관함", "en": "Storage Crate", "fam": "utility", "famko": "보조", "verb": "보관한다", "size": [1, 1], "h": 2.0938, "power": 0, "makes": [], "score": null, "ok": false}, {"id": "train_loco", "ko": "화물 기관차", "en": "Freight Locomotive", "fam": "rail", "famko": "화물 열차", "desc": "흰 차체에 노란 덮개를 얹고 화차를 끌어요.", "size": [2, 7], "h": 4.0, "power": null, "makes": [], "score": null, "ok": false}, {"id": "train_box", "ko": "유개 화차", "en": "Box Wagon", "fam": "rail", "famko": "화물 열차", "desc": "노란 문이 달린 지붕 있는 화차예요.", "size": [2, 6], "h": 3.0938, "power": null, "makes": [], "score": null, "ok": false}, {"id": "train_hopper", "ko": "호퍼 화차", "en": "Hopper Wagon", "fam": "rail", "famko": "화물 열차", "desc": "노란 화차에 광석을 수북이 쌓아 날라요.", "size": [2, 6], "h": 3.3125, "power": null, "makes": [], "score": null, "ok": false}, {"id": "train_tank", "ko": "탱크 화차", "en": "Tank Wagon", "fam": "rail", "famko": "화물 열차", "desc": "맨홀과 난간을 얹고 액체를 나르는 화차예요.", "size": [2, 6], "h": 3.5312, "power": null, "makes": [], "score": null, "ok": false}, {"id": "rail_straight", "ko": "직선 선로", "en": "Straight Track", "fam": "rail", "famko": "화물 열차", "desc": "2칸 길이 타일로, 이어 붙여 노선을 깔아요.", "size": [2, 2], "h": 0.5, "power": null, "makes": [], "score": null, "ok": false}, {"id": "rail_curve", "ko": "곡선 선로", "en": "Curved Track", "fam": "rail", "famko": "화물 열차", "desc": "반지름 10칸으로 도는 곡선 타일이에요.", "size": [11, 11], "h": 0.5, "power": null, "makes": [], "score": null, "ok": false}, {"id": "rail_stop", "ko": "차막이", "en": "Buffer Stop", "fam": "rail", "famko": "화물 열차", "desc": "선로 끝에서 노란 완충 들보가 열차를 받아요.", "size": [2, 2], "h": 2.5, "power": null, "makes": [], "score": null, "ok": false}, {"id": "rail_station", "ko": "화물역", "en": "Freight Station", "fam": "rail", "famko": "화물 열차", "desc": "유리 통로로 온 화물을 노란 팔이 화차에 실어요.", "size": [4, 8], "h": 6.3438, "power": null, "makes": [], "score": null, "ok": false}, {"id": "hover_car", "ko": "호버카", "en": "Hover Car", "fam": "vehicle", "famko": "탈것", "desc": "유리 덮개 아래 한 자리, 추진기 네 개로 떠다녀요.", "size": [2, 3], "h": 1.0938, "power": null, "makes": [], "score": null, "ok": false}, {"id": "ride_drone", "ko": "탑승 드론", "en": "Ride Drone", "fam": "vehicle", "famko": "탈것", "desc": "덕트 로터 네 개에 열린 조종대를 얹었어요.", "size": [2, 2], "h": 1.3438, "power": null, "makes": [], "score": null, "ok": false}, {"id": "airship", "ko": "비행선", "en": "Airship", "fam": "vehicle", "famko": "탈것", "desc": "단단한 기낭 아래 유리 곤돌라에 한 명이 타요.", "size": [4, 9], "h": 5.0, "power": null, "makes": [], "score": null, "ok": false}, {"id": "transmitter_s1", "ko": "거대 송신기 1단계", "en": "Transmitter, Stage 1", "fam": "story", "famko": "이야기 구조물", "desc": "기초 위에 비계로 감싼 다리 밑동과 타워 크레인이 서요.", "size": [12, 12], "h": 11.75, "power": null, "makes": [], "score": null, "ok": false}, {"id": "transmitter_s2", "ko": "거대 송신기 2단계", "en": "Transmitter, Stage 2", "fam": "story", "famko": "이야기 구조물", "desc": "다리와 고리 갑판, 바닥 설비가 서고 크레인이 타고 올라가요.", "size": [12, 12], "h": 23.6875, "power": null, "makes": [], "score": null, "ok": false}, {"id": "transmitter_s3", "ko": "거대 송신기 3단계", "en": "Transmitter, Stage 3", "fam": "story", "famko": "이야기 구조물", "desc": "돛대가 다 서고 꼭대기에 접시의 강철 뼈대가 얹혀요.", "size": [12, 12], "h": 35.25, "power": null, "makes": [], "score": null, "ok": false}, {"id": "transmitter_s4", "ko": "거대 송신기 4단계", "en": "Transmitter, Stage 4", "fam": "story", "famko": "이야기 구조물", "desc": "35 m로 완성되어 이주민에게 신호를 보내요.", "size": [12, 12], "h": 35.0, "power": null, "makes": [], "score": null, "ok": false}, {"id": "settler_port", "ko": "이주선 포트", "en": "Settler Port", "fam": "story", "famko": "이야기 구조물", "desc": "받침대 넷과 탑승 갠트리, 탱크, 관제탑을 갖춘 착륙장이에요.", "size": [12, 12], "h": 9.9375, "power": null, "makes": [], "score": null, "ok": false}, {"id": "settler_ship", "ko": "이주선", "en": "Settler Ship", "fam": "story", "famko": "이야기 구조물", "desc": "엔딩에 내려와 포트 받침대 위에 서는 방주예요.", "size": [8, 18], "h": 12.5625, "power": null, "makes": [], "score": null, "ok": false}, {"id": "research_bench", "ko": "연구대", "en": "Research Bench", "fam": "story", "famko": "이야기 구조물", "desc": "설계도 퍼센트를 올리는 곳이에요.", "size": [3, 2], "h": 5.0, "power": null, "makes": [], "score": null, "ok": false}, {"id": "terrain_shaper", "ko": "지형 성형기", "en": "Terrain Shaper", "fam": "story", "famko": "이야기 구조물", "desc": "움직이는 브리지와 헤드로 땅을 다듬는 4×4칸 갠트리예요.", "size": [4, 4], "h": 5.8125, "power": null, "makes": [], "score": null, "ok": false}, {"id": "pip", "ko": "핍", "en": "Pip", "fam": "opening", "famko": "오프닝 세트", "desc": "비상 수신기였던 보조 드론으로, 처음 만나는 동료예요.", "size": [1, 1], "h": 0.7656, "power": null, "makes": [], "score": null, "ok": false}, {"id": "hero", "ko": "주인공", "en": "Hero", "fam": "opening", "famko": "오프닝 세트", "desc": "혼자 살아남은 생존자예요. 아직 임시 모델이에요.", "size": [1, 1], "h": 1.4531, "power": null, "makes": [], "score": null, "ok": false, "temp": true}, {"id": "gather_tool", "ko": "통합 채집 도구", "en": "Gathering Tool", "fam": "opening", "famko": "오프닝 세트", "desc": "잔해로 만든 도구 하나로 나무도 돌도 캐요.", "size": [1, 1], "h": 0.9375, "power": null, "makes": [], "score": null, "ok": false}, {"id": "wreck_hull", "ko": "선체 잔해", "en": "Wreck Hull", "fam": "opening", "famko": "오프닝 세트", "desc": "찢어진 외판 사이로 안쪽 뼈대가 드러난 동체예요.", "size": [6, 8], "h": 4.25, "power": null, "makes": [], "score": null, "ok": false}, {"id": "wreck_engine", "ko": "엔진 잔해", "en": "Wreck Engine", "fam": "opening", "famko": "오프닝 세트", "desc": "떨어져 나와 땅에 뒹구는 엔진 통이에요.", "size": [6, 6], "h": 3.2812, "power": null, "makes": [], "score": null, "ok": false}, {"id": "wreck_wing", "ko": "날개 잔해", "en": "Wreck Wing", "fam": "opening", "famko": "오프닝 세트", "desc": "뿌리째 부러져 땅에 누운 날개예요.", "size": [5, 8], "h": 2.25, "power": null, "makes": [], "score": null, "ok": false}, {"id": "wreck_cockpit", "ko": "조종석 잔해", "en": "Wreck Cockpit", "fam": "opening", "famko": "오프닝 세트", "desc": "나중에 송신기의 관제실로 다시 쓰여요.", "size": [5, 5], "h": 3.5625, "power": null, "makes": [], "score": null, "ok": false}, {"id": "wreck_debris", "ko": "잔해 더미", "en": "Wreck Debris", "fam": "opening", "famko": "오프닝 세트", "desc": "흩어진 패널과 상자로, 첫 고철을 줍는 곳이에요.", "size": [4, 4], "h": 1.625, "power": null, "makes": [], "score": null, "ok": false}];
+const FAM = [["all","전체"],["heat","가열"],["extract","채집"],["power","전력"],["fluid","액체"],["bio","생물"],["assemble","조립"],["forming","성형"],["lumen","루멘"],["sky","하늘"],["utility","보조"],["logi","물류"],["rail","화물 열차"],["vehicle","탈것"],["story","이야기 구조물"],["opening","오프닝 세트"]];
+const rail = document.getElementById("rail"), grid = document.getElementById("grid"), logi = document.getElementById("logi");
+const sets = [...document.querySelectorAll(".set")], setKeys = new Set(sets.map(x => x.dataset.k)), logiCount = logi.querySelectorAll(".logigrid figure").length;
 let fam = "all", sort = "fam";
 for (const [k, ko] of FAM) {
   const b = document.createElement("button");
@@ -121,15 +133,15 @@ function card(m) {
   const a = document.createElement("article");
   a.style.setProperty("--c", `var(--${m.fam})`);
   const s = m.score || [0, 0];
-  a.innerHTML = `<div class="shotwrap"><button class="shot" type="button" aria-label="${m.ko} 크게 보기"><img loading="lazy" src="img/${m.id}.jpg" alt="${m.ko}">${m.ok ? '<span class="flag">합격</span>' : ""}</button><button class="flip" type="button" aria-pressed="false">뒷면 보기</button></div>
+  a.innerHTML = `<div class="shotwrap"><button class="shot" type="button" aria-label="${m.ko} 크게 보기"><img loading="lazy" src="img/${m.id}.jpg" alt="${m.ko}">${m.ok ? '<span class="flag">합격</span>' : ""}${m.temp ? '<span class="flag">임시</span>' : ""}</button><button class="flip" type="button" aria-pressed="false">뒷면 보기</button></div>
   <div class="info">
     <div class="head"><h2>${m.ko}<span class="en">${m.en}</span></h2><span class="fam">${m.famko}</span></div>
-    <dl><div><dt>크기</dt><dd>${m.size[0]}×${m.size[1]}칸</dd></div><div><dt>높이</dt><dd>${m.h ? m.h.toFixed(1) + " m" : "-"}</dd></div><div><dt>전력</dt><dd>${m.power}</dd></div></dl>
-    ${m.makes.length ? `<p class="makes">${m.verb} → ${m.makes.join(", ")}</p>` : `<p class="makes">${m.verb || "설비"}</p>`}
+    <dl><div><dt>크기</dt><dd>${m.size[0]}×${m.size[1]}칸</dd></div><div><dt>높이</dt><dd>${m.h ? m.h.toFixed(1) + " m" : "-"}</dd></div><div><dt>전력</dt><dd>${m.power ?? "-"}</dd></div></dl>
+    ${m.desc ? `<p class="makes">${m.desc}</p>` : m.makes.length ? `<p class="makes">${m.verb} → ${m.makes.join(", ")}</p>` : `<p class="makes">${m.verb || "설비"}</p>`}
     ${m.score ? `<div class="score">
       <span>앞면</span><span class="bar"><i style="width:${s[0] * 10}%"></i></span><b>${s[0].toFixed(1)}</b>
       <span>뒷면</span><span class="bar"><i style="width:${s[1] * 10}%"></i></span><b>${s[1].toFixed(1)}</b>
-    </div>` : `<p class="makes noscore">점수 없음</p>`}
+    </div>` : m.desc ? "" : `<p class="makes noscore">점수 없음</p>`}
   </div>`;
   const flip = a.querySelector(".flip"), thumb = a.querySelector(".shot img");
   flip.onclick = () => {
@@ -144,17 +156,25 @@ function card(m) {
     document.getElementById("dlgImg").alt = m.ko;
     document.getElementById("dlgBack").src = `img/${m.id}_back.jpg`;
     document.getElementById("dlgBack").alt = `${m.ko} 뒷면`;
-    document.getElementById("dlgCap").textContent = `${m.ko} · ${m.en}`;
+    document.getElementById("dlgCap").textContent = `${m.ko}${m.temp ? " (임시)" : ""} · ${m.en}`;
     d.showModal();
   };
   return a;
 }
 function draw() {
-  let L = M.filter(m => fam === "all" || m.fam === fam);
-  if (sort === "score") L = [...L].sort((a, b) => avg(b) - avg(a));
-  if (sort === "tall") L = [...L].sort((a, b) => b.h - a.h);
-  grid.replaceChildren(...L.map(card));
-  document.getElementById("count").textContent = `${L.length}종`;
+  const order = L => sort === "score" ? [...L].sort((a, b) => avg(b) - avg(a)) : sort === "tall" ? [...L].sort((a, b) => b.h - a.h) : L;
+  const L = M.filter(m => !setKeys.has(m.fam) && (fam === "all" || m.fam === fam));
+  grid.replaceChildren(...order(L).map(card));
+  grid.hidden = !L.length;
+  logi.hidden = fam !== "all" && fam !== "logi";
+  let n = L.length + (logi.hidden ? 0 : logiCount);
+  for (const x of sets) {
+    x.hidden = fam !== "all" && fam !== x.dataset.k;
+    const R = x.hidden ? [] : M.filter(m => m.fam === x.dataset.k);
+    x.querySelector(".grid").replaceChildren(...order(R).map(card));
+    n += R.length;
+  }
+  document.getElementById("count").textContent = `${n}종`;
 }
 const dlg = document.getElementById("dlg");
 document.getElementById("dlgClose").onclick = () => dlg.close();
